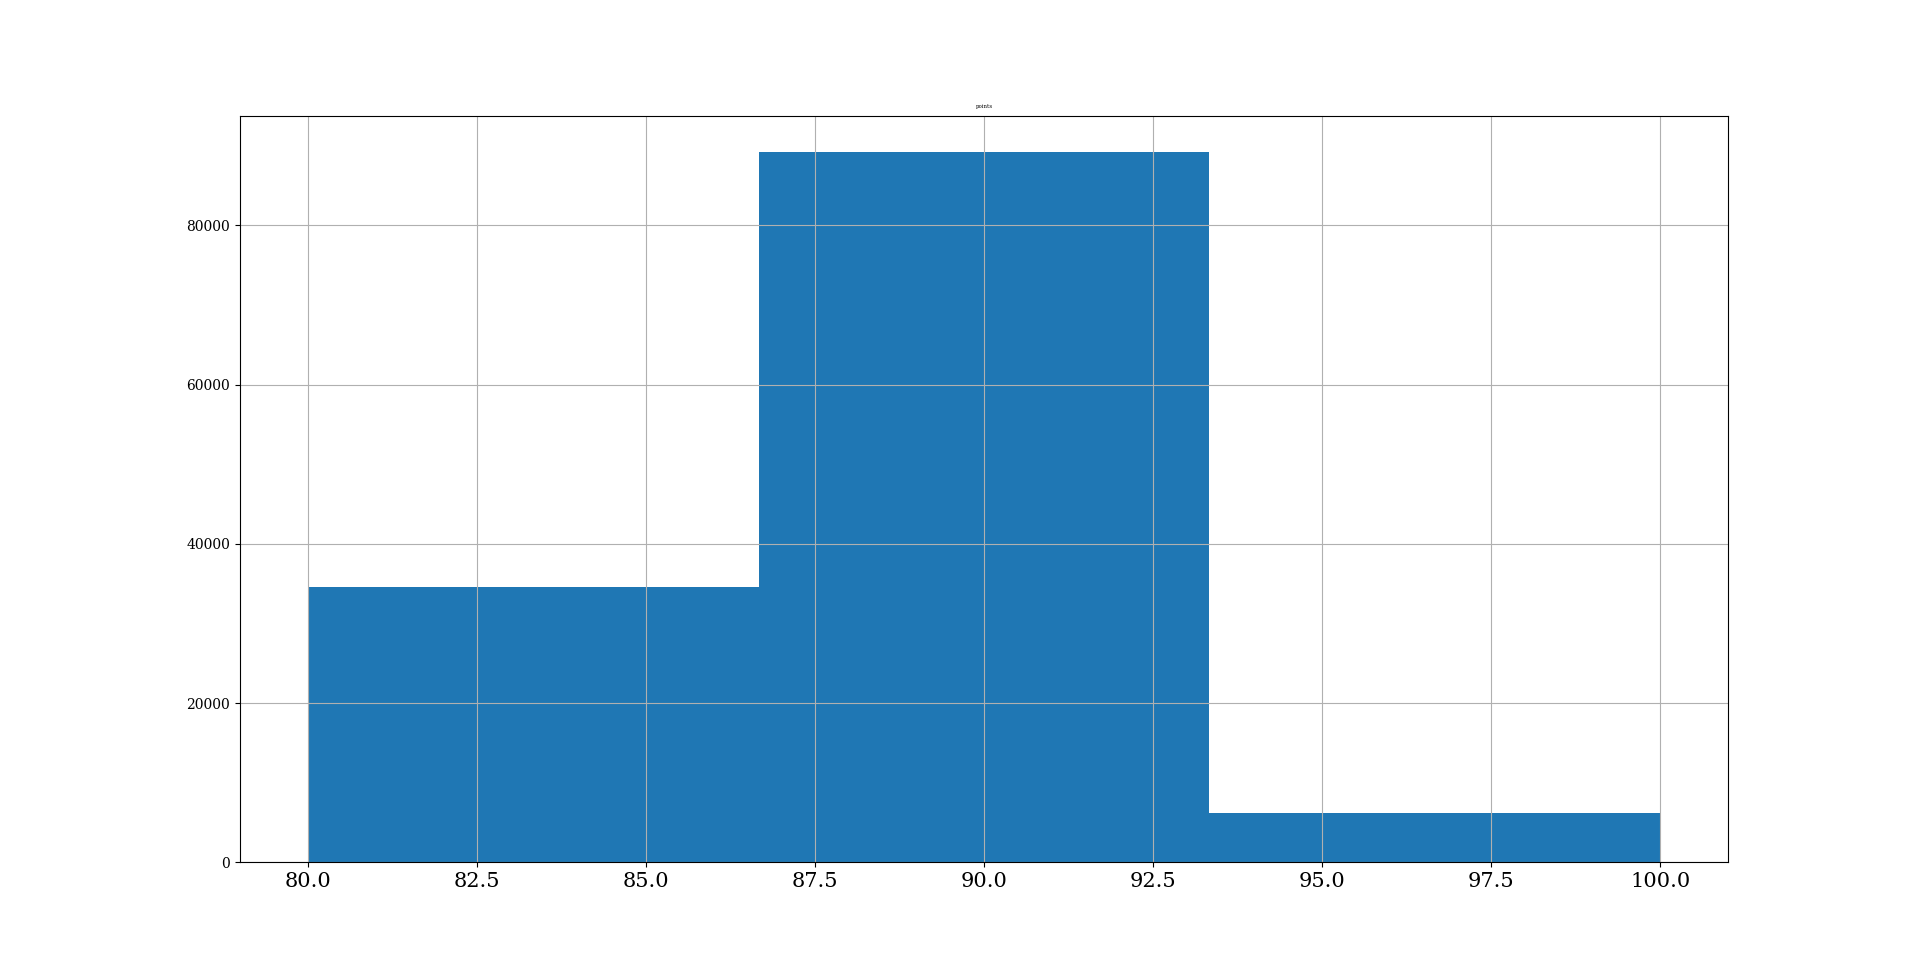
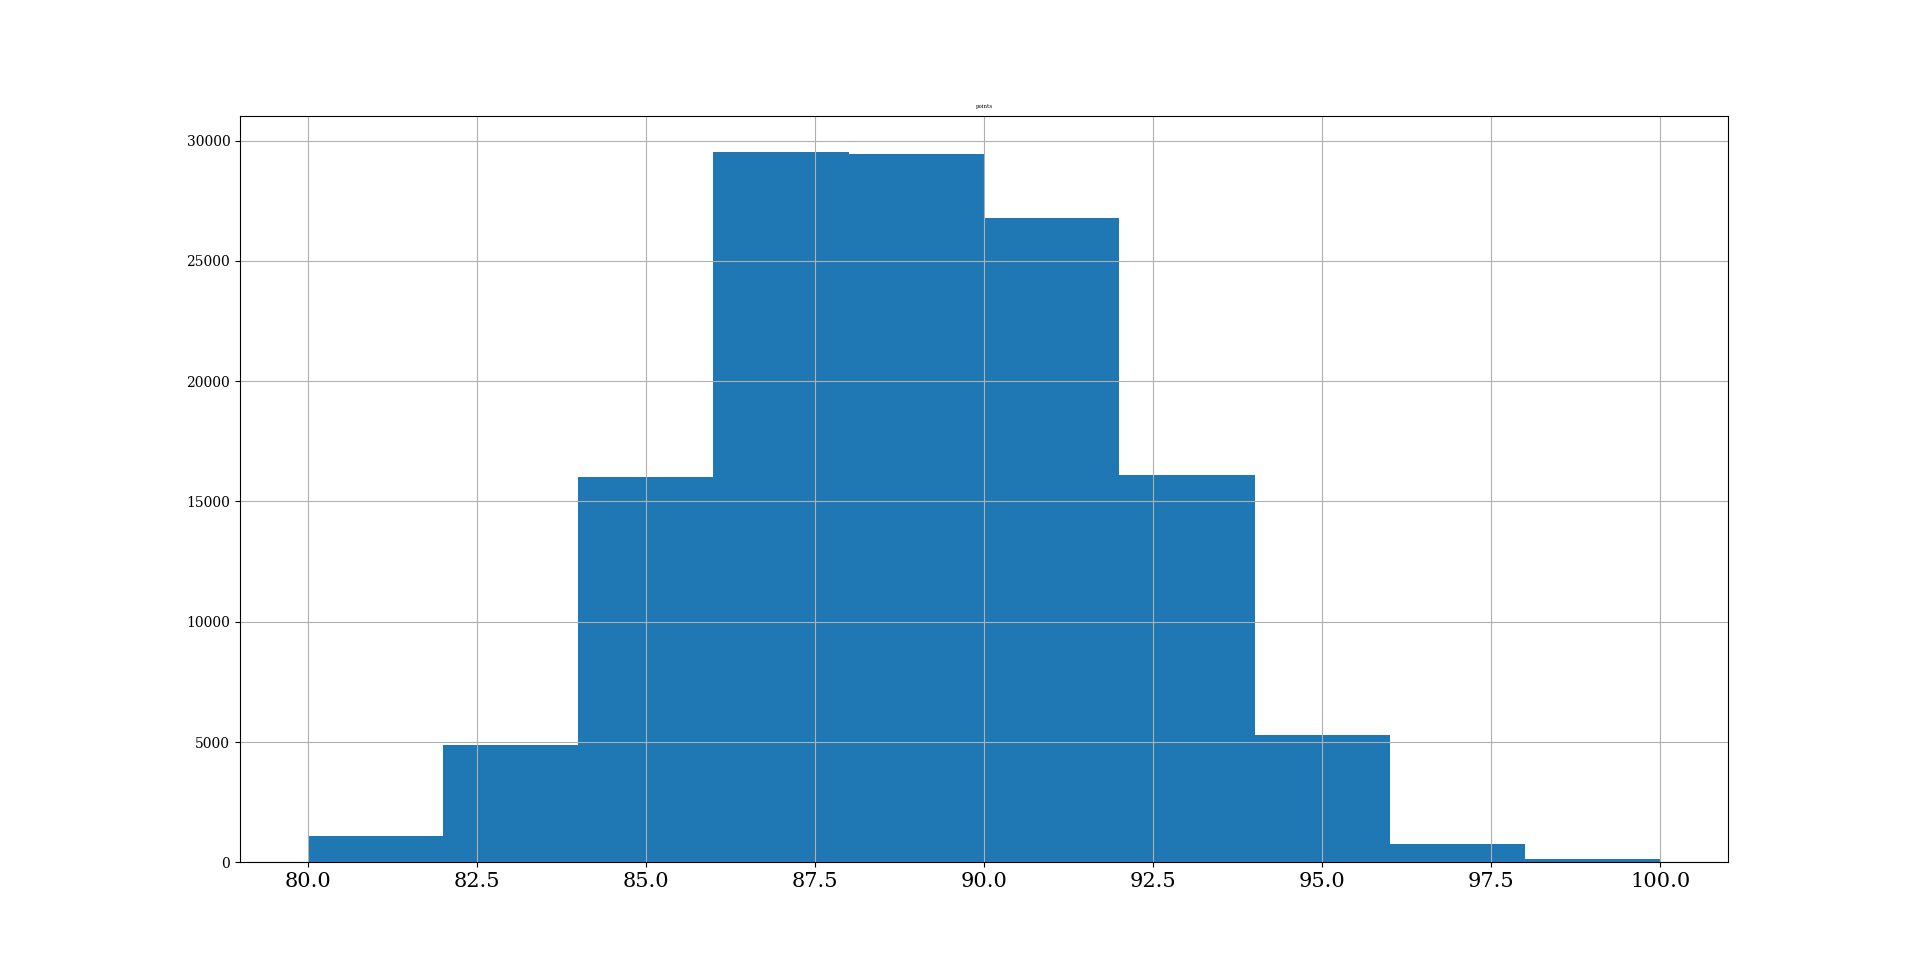
Report for 1f and forward stepwise selection

diff --git a/report/task2/report.tex b/report/task2/report.tex
@@ -14,14 +14,14 @@
 \section{Data Pre-processing}
 
 \subsection{Extract vintage from "title" column}
-As the task sheet requires, we need to extract the vintage from the title column. First it is necessary to identify how would vintage appears in the title. Because they indicate a specific year, they appear mostly as a concatenation of 4 digits. The process can be done by searching for numbers using regular expression ([0-9][0-9][0-9][0-9]) in each entry of title column. This is however not enough for the exaction as there can be the case, where the 4 digits do not make any sense of year (for example: 1000 or 9000 as these should not be a reasonable years for vintage). Thus, we add some constrains with the expectation of getting more meaningful numbers for the vintage. The extracted number first should be in between 1800 and 2022 because it makes more sense that all wines were made in this year range. Also there are time when we could extracted 2 or more years in the same title entry. Here we focus on the exception with 2 different numbers. The entry 2262 in the data has 2 different years (1637 and 2002). Our implementation is to extract the maximum number as vintage, which suits this entry well because 1637 represents the establish year of the facility and 2002 is the actual wine year.
+As the task sheet requires, we need to extract the vintage from the title column. First it is necessary to identify how would vintage appears in the title. Because they indicate a specific year, they appear mostly as a concatenation of 4 digits. The process can be done by searching for numbers using regular expression ([0-9][0-9][0-9][0-9]) in each entry of title column. This is however not enough for the exaction as there can be the case, where the 4 digits do not make any sense of year (for example: 1000 or 9000 as these should not be a reasonable years for vintage). Thus, we add some constraints with the expectation of getting more meaningful numbers for the vintage. The extracted number first should be in between 1800 and 2022 because it makes more sense that all wines were made in this year range. Also there are time when we could extracted 2 or more years in the same title entry. Here we focus on the exception with 2 different numbers. The entry 2262 in the data has 2 different years (1637 and 2002). Our implementation is to extract the maximum number as vintage, which suits this entry well because 1637 represents the establish year of the facility and 2002 is the actual wine year.
 
 It is important to keep in mind that the extraction may not absolute accurate because the idea for the extraction of vintage comes through the observation of the data frame. For the better result, data should be consistent with a recognizable pattern.
 
 \subsection{Histogram}
 Plotting is one way to get an overview of the values of each column. There will be two types of plotting depend on the value type of columns. For numeric types (Integer or Float), we plot histograms which show the range and the distribution of values. For string type, we plot the counts of each unique values.
 
-All histogram for numeric columns are plotted with group of 3 bins. Because there can be too many unique values to plot, we decided to plot the counts of top 20 unique values for string columns. We also exclude description and title columns from the plot result with the assumption that each entry of these columns are unique and this makes plotting for these columns serves no purpose.
+Because there can be too many unique values to plot, we decided to plot the counts of top 20 unique values for string columns. We also exclude description and title columns from the plot result with the assumption that each entry of these columns are unique and this makes plotting for these columns serves no purpose.
 
 Country
 
@@ -31,11 +31,11 @@ Designation
 
 \includegraphics[width=\textwidth,height=\textheight,keepaspectratio]{figures/1c_histogram_of_designation.png}
 
-Points
+Points (bin=10)
 
 \includegraphics[width=\textwidth,height=\textheight,keepaspectratio]{figures/1c_histogram_of_points.png}
 
-Price
+Price (bin=80)
 
 \includegraphics[width=\textwidth,height=\textheight,keepaspectratio]{figures/1c_histogram_of_price.png}
 
@@ -67,7 +67,7 @@ Winery
 
 \includegraphics[width=\textwidth,height=\textheight,keepaspectratio]{figures/1c_histogram_of_winery.png}
 
-Vintage
+Vintage (bin=10)
 
 \includegraphics[width=\textwidth,height=\textheight,keepaspectratio]{figures/1c_histogram_of_vintage.png}
 
@@ -91,10 +91,26 @@ We also retrieve the number of null entries for each column:
 \end{itemize}
 
 \subsection{Statistics}
+
 \subsection{Data Transformation}
+
 \subsection{f}
 
+When new type of wine is added, we still need some constraints to check if this is actual new type. For example, with a specific implementation, "US", "USA" and "America" in column country are totally different. This means we need a way to standardize the values for each column and different input values with the same context should be grouped together. When we reach a specific number of newly added row, the description column should be pre-processed again, as the description column relates to other columns best and use training algorithm to vectorize values.
+\section{Ridge Regression}
 
+\subsection{Forward step selection}
+We want to find the most impact features in the data and forward step selection is one of the options. We first start with an empty model with no fitted data, then we find the best feature to add to the model. This can be done base on the mean squared errors when we add each available feature to the model. We keep adding features into the model until we reach a certain number k.
+
+As for the result of the given wine data:
+\begin{itemize}
+    \item k=0: Feature: description with the mse of 596.297918013402
+    \item k=1: Feature: country with the mse of 5.609319585427947
+    \item k=3: Feature: province with the mse of 4.878210024539221
+    \item k=4: Feature: taster\_name with the mse of 4.75865561866921
+\end{itemize}
+
+The most significant features are the one with many unique values across the data (description, country) because the column with more unique values will contain better relations with other column. On the other hand, if most row cluster into a certain value or range of values (price/points/vintage), this makes prediction harder because the values do not hold any meaning for a good estimation (as completely different wine can have the same points)
 
 % Print references
 \end{document}
